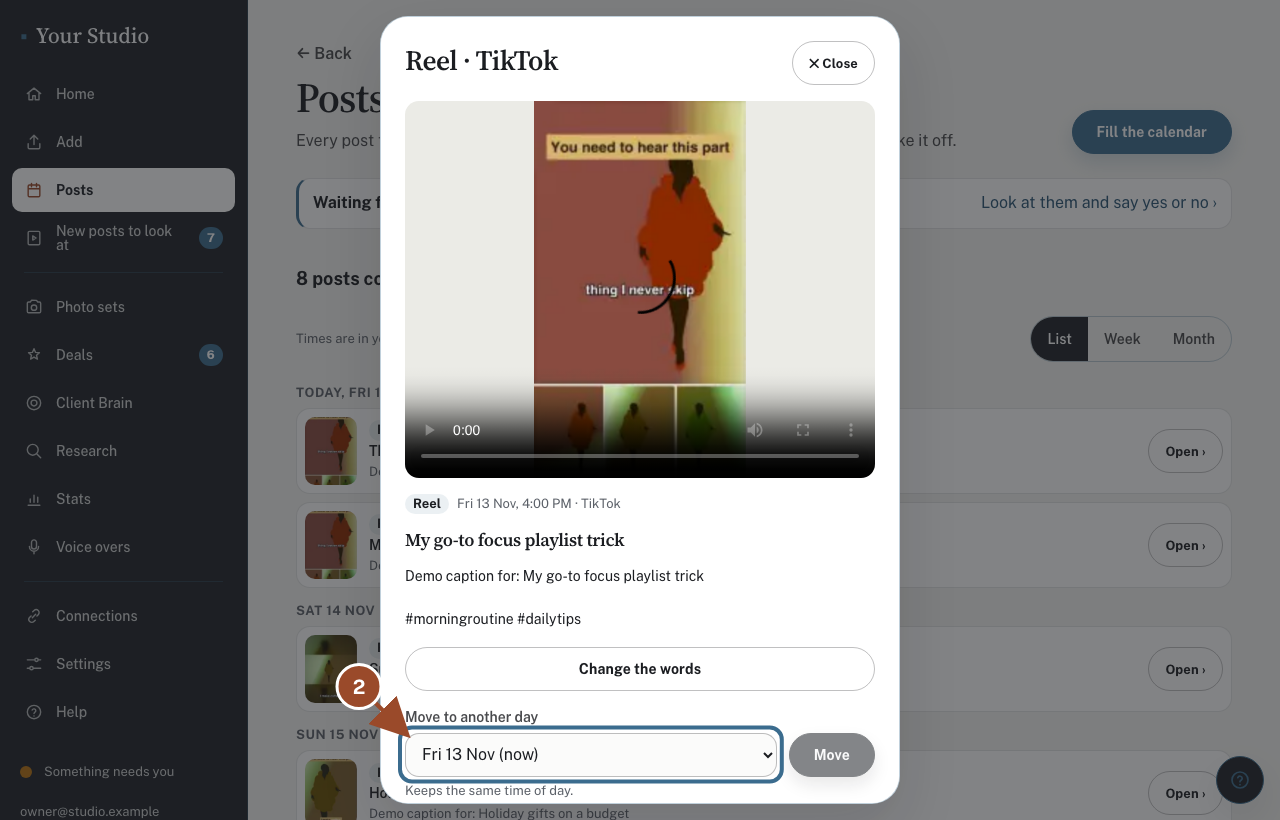
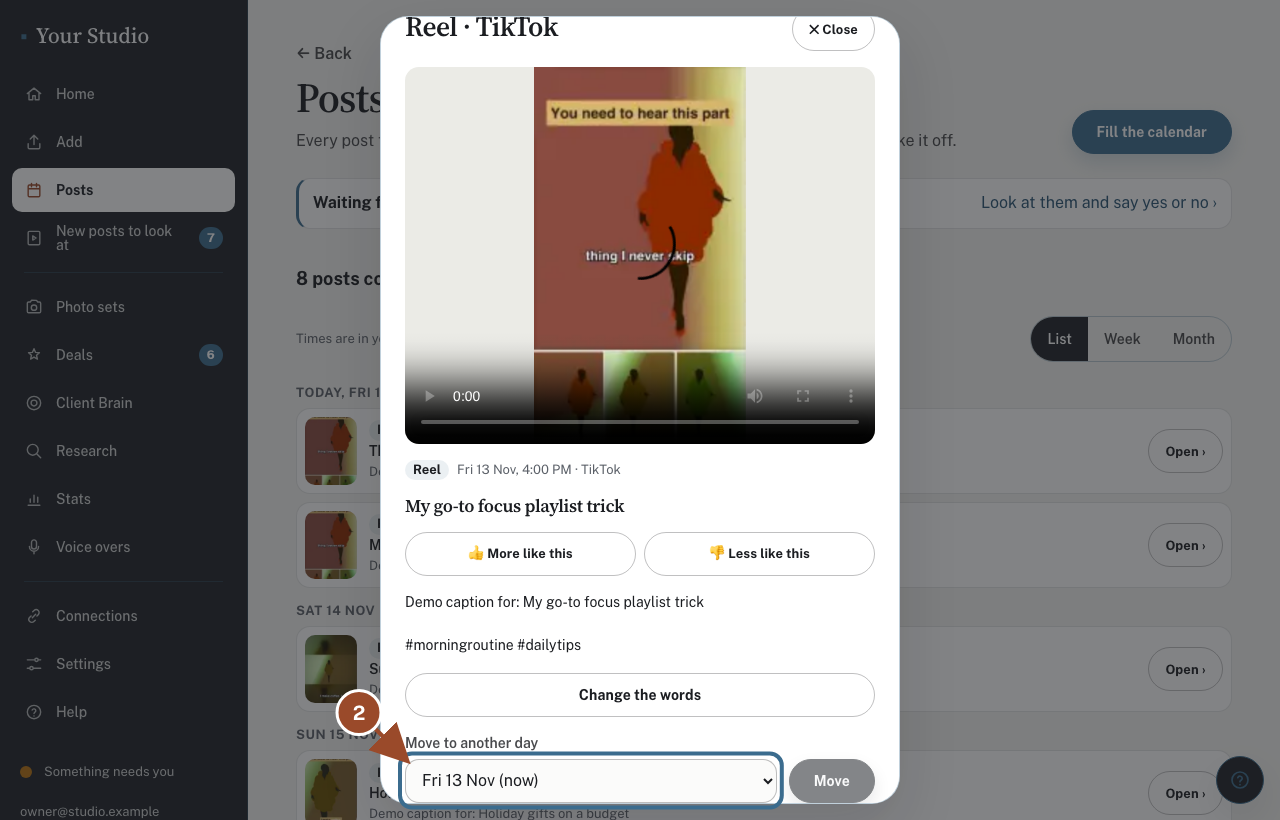
"More like this" and "Less like this" on every post (owner, 13 Nov 2026)
- The opened post on Posts has two buttons. A tap is saved against that kind of post (a reel's
  clip type, or a photo post's kind); the latest tap per kind wins (studioMemory tasteFrom).
- The cut job's memory carries it: "more" kinds are tried first in every event, "less" kinds
  only fill a batch the others leave short (jobs/clipmaker.py plan_typed, jobs/playbook.py).
- A new photo set leaves out a "less" kind while another kind remains.
- Guide move-or-remove-a-post gains the step. Tests: jobs/tests/test_taste.py (red on the old
  planner), tests/unit/posts-list.test.ts (red without the photo filter), Posts e2e clicks it.

Claude-Session: https://claude.ai/code/session_01CJ98gV1Fg1ugnbr1epnbBp

Changed region(s): [[0.3125, 0.0, 0.6875, 0.8537], [0.25, 0.7927, 0.6875, 1.0]]

diff --git a/tests/unit/posts-list.test.ts b/tests/unit/posts-list.test.ts
@@ -341,3 +341,32 @@ describe("the Rejected bin", () => {
     expect((await photoPostsTick(await hydrate(env), Date.now() + 30 * DAY)).posted).toBe(posts.length - same.length);
   });
 });
+
+// "More like this" / "Less like this" on any post (owner, 13 Nov 2026): a tap is saved against the kind
+// of post, the latest tap per kind wins, and the next batch reads it (clips: jobs/tests/test_taste.py).
+describe("More like this / Less like this", () => {
+  it("a tap on a reel is saved as its clip type and reaches the cut job's memory; the latest tap wins", async () => {
+    const { loadMemory } = await import("@worker/domain/studioMemory");
+    await seedClips(1);
+    raw.exec("UPDATE clips SET clip_type = 'moving_photo' WHERE id = 'clp_0'");
+    raw.exec(`INSERT INTO posts (id, clip_id, platform, scheduled_at, status) VALUES ('pst_t1', 'clp_0', 'tiktok', '${new Date(Date.now() + DAY).toISOString()}', 'planned')`);
+    const less = await call("POST", "/api/posts/item/pst_t1/taste", { more: false });
+    expect(less).toEqual({ status: 200, json: { ok: true, kind: "clip:moving_photo", more: false } });
+    expect((await loadMemory(env)).taste).toEqual({ more: [], less: ["clip:moving_photo"] });
+    await call("POST", "/api/posts/item/pst_t1/taste", { more: true });
+    expect((await loadMemory(env)).taste).toEqual({ more: ["clip:moving_photo"], less: [] });
+    expect((await call("POST", "/api/posts/item/pst_t1/taste", {})).status).toBe(400);
+    expect((await call("POST", "/api/posts/item/pst_gone/taste", { more: true })).status).toBe(404);
+  });
+
+  it("Less like this on a photo set: the next pack plans no photo sets while other kinds remain", async () => {
+    await readyPack();
+    const set = raw.prepare("SELECT id FROM social_posts WHERE item_kind = 'carousel' LIMIT 1").get() as { id: string };
+    expect(set).toBeTruthy();
+    expect((await call("POST", `/api/posts/item/${set.id}/taste`, { more: false })).json).toMatchObject({ kind: "photo:carousel" });
+    const next = await readyPack();
+    const kinds = (raw.prepare("SELECT item_kind FROM social_posts WHERE pack_id = ?").all(next) as { item_kind: string }[]).map((r) => r.item_kind);
+    expect(kinds.length).toBeGreaterThan(0);
+    expect(kinds).not.toContain("carousel");
+  });
+});

diff --git a/worker/domain/studioMemory.ts b/worker/domain/studioMemory.ts
@@ -50,6 +50,40 @@ export interface MemorySummary {
   rejection: { rate: number; reviewed: number; window_days: number };
   approach: Approach;
   why: string;
+  /** "More like this" / "Less like this" on a post (owner, 13 Nov 2026): the kinds she asked for more or less of. */
+  taste?: Taste;
+}
+
+/** Kinds are "clip:<clip_type>" or "photo:<item_kind>". */
+export interface Taste {
+  more: string[];
+  less: string[];
+}
+
+export const TASTE_EVENT = "post.taste";
+
+/** Her taps, newest first, as the kinds she wants more and less of: the latest tap per kind wins. Pure. */
+export function tasteFrom(taps: readonly { kind: string; more: boolean }[]): Taste {
+  const seen = new Map<string, boolean>();
+  for (const t of taps) if (t.kind && !seen.has(t.kind)) seen.set(t.kind, t.more);
+  return { more: [...seen].filter(([, m]) => m).map(([k]) => k), less: [...seen].filter(([, m]) => !m).map(([k]) => k) };
+}
+
+/** Her taps in the memory window. */
+export async function loadTaste(env: Pick<Env, "DB">): Promise<Taste> {
+  const since = new Date(Date.now() - WINDOW_DAYS * 86_400_000).toISOString();
+  const { results } = await env.DB.prepare("SELECT detail FROM events WHERE kind = ? AND created_at >= ? ORDER BY created_at DESC, rowid DESC LIMIT 200").bind(TASTE_EVENT, since).all<{ detail: string }>();
+  const taps = results
+    .map((r) => {
+      try {
+        const d = JSON.parse(r.detail) as { kind?: unknown; more?: unknown };
+        return typeof d.kind === "string" && typeof d.more === "boolean" ? { kind: d.kind, more: d.more } : null;
+      } catch {
+        return null;
+      }
+    })
+    .filter((x): x is { kind: string; more: boolean } => !!x);
+  return tasteFrom(taps);
 }
 
 function clip(s: string, n: number): string {
@@ -169,5 +203,5 @@ export async function loadMemory(env: Pick<Env, "DB">): Promise<MemorySummary> {
     await recordEvent(env.DB, "studio.approach_switched", null, { from: prev, to: m.approach, rate: m.rejection.rate, reviewed: m.rejection.reviewed, why: m.why });
     log.warn("studio.approach_switched", { from: prev, to: m.approach, rate: m.rejection.rate, reviewed: m.rejection.reviewed });
   }
-  return m;
+  return { ...m, taste: await loadTaste(env) };
 }

diff --git a/worker/routes/posts.ts b/worker/routes/posts.ts
@@ -8,6 +8,7 @@ import { Hono } from "hono";
 import type { Env, Vars } from "../env";
 import { requireUser } from "../lib/auth";
 import { parseJson, recordEvent } from "../lib/db";
+import { TASTE_EVENT } from "../domain/studioMemory";
 import { fail, readJson } from "../lib/http";
 import { log, safeError } from "../lib/log";
 import { weekBounds, zonedToUtc, type PlannedPost, type SchedulableClip } from "../domain/slotting";
@@ -154,6 +155,29 @@ posts.get("/item/:id", async (c) => {
   const item = await postItem(c.env, c.req.param("id"));
   if (!item) return fail(c, 404, "That post is gone. Go back to Posts and look again.");
   return c.json(item);
+});
+
+/**
+ * "More like this" / "Less like this" on any post (owner, 13 Nov 2026). Saved as a tap on the kind of
+ * post (a reel's clip type, or a photo post's kind); the studio memory reads the latest tap per kind
+ * and the next batch makes more of it, or uses it only to fill (worker/domain/studioMemory.ts tasteFrom).
+ */
+posts.post("/item/:id/taste", async (c) => {
+  const body = (await c.req.json().catch(() => ({}))) as { more?: unknown };
+  if (typeof body.more !== "boolean") return fail(c, 400, "Pick More like this or Less like this.");
+  const item = await postItem(c.env, c.req.param("id"));
+  if (!item) return fail(c, 404, "That post is gone. Go back to Posts and look again.");
+  let kind: string | null = null;
+  if (item.source === "clip") {
+    const r = await c.env.DB.prepare("SELECT clip_type FROM clips WHERE id = ?").bind(item.ref_id).first<{ clip_type: string | null }>();
+    kind = r?.clip_type ? `clip:${r.clip_type}` : null;
+  } else {
+    const r = await c.env.DB.prepare("SELECT item_kind FROM social_posts WHERE id = ?").bind(item.id).first<{ item_kind: string }>();
+    kind = r ? `photo:${r.item_kind}` : null;
+  }
+  if (!kind) return fail(c, 409, "This post is an older kind the studio cannot learn from. Try another post.");
+  await recordEvent(c.env.DB, TASTE_EVENT, item.id, { kind, more: body.more }, "owner");
+  return c.json({ ok: true, kind, more: body.more });
 });
 
 /** Posts per page in Calendar → History (day 358). */

diff --git a/app/components/PostSheet.tsx b/app/components/PostSheet.tsx
@@ -29,6 +29,20 @@ export function PostSheet({ id, tz, today, others, onClose, onChanged }: { id: s
   const [day, setDay] = useState("");
   const [swapWith, setSwapWith] = useState("");
   const [busy, setBusy] = useState(false);
+  const [taste, setTaste] = useState<boolean | null>(null);
+
+  async function tell(more: boolean) {
+    setBusy(true);
+    try {
+      await post(`/api/posts/item/${id}/taste`, { more });
+      setTaste(more);
+      toast.ok(more ? "Got it. The next batch makes more posts like this one." : "Got it. The next batch makes fewer posts like this one.");
+    } catch (e) {
+      toast.bad(e);
+    } finally {
+      setBusy(false);
+    }
+  }
 
   if (item.error && !p)
     return (
@@ -110,6 +124,16 @@ export function PostSheet({ id, tz, today, others, onClose, onChanged }: { id: s
         </div>
         {p.source === "clip" ? <h3 className="post-headline">{p.headline}</h3> : null}
         {p.reason ? <div className={`notice ${p.state === "failed" ? "bad" : "warn"}`}>{p.reason}</div> : null}
+
+        {/* "More like this" / "Less like this" (owner, 13 Nov 2026): what she says here shapes the next batch. */}
+        <div className="taste-row" data-taste>
+          <button type="button" className={`btn quiet small${taste === true ? " on" : ""}`} aria-pressed={taste === true} disabled={busy} onClick={() => void tell(true)}>
+            👍 More like this
+          </button>
+          <button type="button" className={`btn quiet small${taste === false ? " on" : ""}`} aria-pressed={taste === false} disabled={busy} onClick={() => void tell(false)}>
+            👎 Less like this
+          </button>
+        </div>
 
         {editing && p.edit ? (
           <div className="field">

diff --git a/tests/e2e/posts.spec.ts b/tests/e2e/posts.spec.ts
@@ -76,6 +76,7 @@ function cleanUp() {
     [
       "DELETE FROM posts",
       "DELETE FROM social_posts",
+      "DELETE FROM events WHERE kind = 'post.taste'",
       "DELETE FROM pack_items",
       "DELETE FROM pack_photos",
       "DELETE FROM photo_packs",
@@ -228,6 +229,12 @@ test("open a post of each kind: watch it, read the whole caption, change the wor
   await expect(sheet.getByRole("button", { name: "Skip this post (it will not go out)" })).toBeVisible();
   await expect(sheet.getByLabel("Swap for a different post")).toHaveCount(0);
   await shot(page, "06-photo-post-words-saved", isMobile);
+  // "Less like this" (owner, 13 Nov 2026): saved against this kind of post, said in place, button stays pressed.
+  await sheet.getByRole("button", { name: /Less like this/ }).click();
+  await expect(page.locator(".toast").filter({ hasText: "fewer posts like this one" }).first()).toBeVisible();
+  await expect(sheet.getByRole("button", { name: /Less like this/ })).toHaveAttribute("aria-pressed", "true");
+  expect(sql<{ n: number }>(`SELECT COUNT(*) AS n FROM events WHERE kind = 'post.taste' AND detail LIKE '%"photo:%' AND detail LIKE '%"more":false%'`)[0].n).toBeGreaterThanOrEqual(1);
+  sql("DELETE FROM events WHERE kind = 'post.taste'"); // later tests in this shared studio plan photo sets unsteered
   await sheet.getByRole("button", { name: "✕ Close" }).last().click();
   await expect(sheet).toHaveCount(0);
 

diff --git a/worker/lib/photoPosts.ts b/worker/lib/photoPosts.ts
@@ -30,6 +30,7 @@ import { weekBounds, zonedToUtc } from "../domain/slotting";
 import { moveToDate } from "../domain/sync";
 import { localDate, planPack, postLine, skipToken, starterCaptions, whenLine } from "../domain/photoPosts";
 import { hasRules, parseRules, priceList, textProblems, withAiLabel, type ContentRules } from "@shared/contentRules";
+import { loadTaste } from "../domain/studioMemory";
 import {
   AI_MADE,
   PACK_MAX_PHOTOS,
@@ -281,7 +282,11 @@ export async function schedulePack(env: Env, packId: string, now = Date.now()): 
     const k = `${cp.platform}|${w.start}`;
     weekCounts.set(k, (weekCounts.get(k) ?? 0) + 1);
   }
-  const plan = planPack(now, cfg, tz, items.map((i) => i.kind), taken, weekFull);
+  // "Less like this" on a kind of photo post (owner, 13 Nov 2026): that kind is left out while another remains.
+  const less = new Set((await loadTaste(env)).less);
+  const kinds = items.map((i) => i.kind);
+  const wanted = kinds.filter((k) => !less.has(`photo:${k}`));
+  const plan = planPack(now, cfg, tz, wanted.length ? wanted : kinds, taken, weekFull);
   const order: Record<Social, number> = { facebook: 0, instagram: 1, tiktok: 2, pinterest: 0 };
   for (const p of plan) {
     const caption = captions[order[p.platform] % Math.max(1, captions.length)] ?? "";

diff --git a/app/styles/calendar.css b/app/styles/calendar.css
@@ -624,7 +624,7 @@
   display: flex;
   flex-wrap: wrap;
   justify-content: space-between;
-  gap: var(--space-2, 8px);
+  gap: var(--space-2xs);
   align-items: center;
   min-height: 44px;
   padding: 12px 14px;
@@ -638,4 +638,19 @@
 }
 .posts-waiting span {
   color: var(--gold-ink);
+}
+
+/* "More like this" / "Less like this" in the opened post: two equal buttons side by side, 44 px tall. */
+.taste-row {
+  display: grid;
+  grid-template-columns: 1fr 1fr;
+  gap: var(--space-2xs);
+}
+.taste-row .btn {
+  min-height: 44px;
+}
+.taste-row .btn.on {
+  border-color: var(--success);
+  background: var(--success-soft);
+  font-weight: 600;
 }

diff --git a/jobs/tests/test_taste.py b/jobs/tests/test_taste.py
@@ -1,0 +1,46 @@
+"""More like this / Less like this (owner, 13 Nov 2026): kinds she asked for more of are made first;
+kinds she asked for less of only fill a batch the others leave short. Golden-set footage."""
+from __future__ import annotations
+
+import sys
+import unittest
+from collections import Counter
+from pathlib import Path
+
+sys.path.insert(0, str(Path(__file__).resolve().parents[1]))
+import clipmaker as CM  # noqa: E402
+import golden_playbook as G  # noqa: E402
+import playbook as PB  # noqa: E402
+
+
+def plan(slug: str, taste: dict, n: int = 10) -> list:
+    looks, tracks, talk = G.looks_for(G.load()[slug]["uploads"])
+    return CM.plan_typed(looks, PB.load({"memory": {"taste": taste}}), {"min": 1, "max": n}, None, tracks, talk)
+
+
+class Taste(unittest.TestCase):
+    def test_less_like_this_leaves_that_kind_out_when_others_fill(self) -> None:
+        base = Counter(p.clip_type for p in plan("event-decor", {}, 3))
+        self.assertIn("moving_photo", plan_types := [p.clip_type for p in plan("event-decor", {}, 10)])
+        got = [p.clip_type for p in plan("event-decor", {"less": ["clip:moving_photo"]}, 3)]
+        self.assertEqual(len(got), sum(base.values()))
+        self.assertNotIn("moving_photo", got, f"less was ignored: {got} (unsteered {plan_types})")
+
+    def test_less_like_this_still_fills_a_short_batch(self) -> None:
+        full = plan("event-decor", {}, 10)
+        got = plan("event-decor", {"less": ["clip:moving_photo"]}, 10)
+        self.assertEqual(len(got), len(full), "a 'less' kind must still fill a batch the others leave short")
+
+    def test_more_like_this_makes_more_of_that_kind(self) -> None:
+        before = [p.clip_type for p in plan("event-decor", {}, 3)].count("moving_photo")
+        got = [p.clip_type for p in plan("event-decor", {"more": ["clip:moving_photo"]}, 3)]
+        self.assertGreater(got.count("moving_photo"), before, got)
+        self.assertEqual(got[0], "moving_photo")
+
+    def test_photo_kinds_and_unknown_kinds_do_not_reach_the_clip_planner(self) -> None:
+        pb = PB.load({"memory": {"taste": {"more": ["photo:reel", "clip:not_a_type", 7], "less": ["photo:carousel"]}}})
+        self.assertEqual((pb["more"], pb["less"]), ([], []))
+
+
+if __name__ == "__main__":
+    unittest.main()

diff --git a/jobs/clipmaker.py b/jobs/clipmaker.py
@@ -321,15 +321,20 @@ def plan_typed(looks: list[S.Look], pb: dict[str, Any], target: dict[str, int], 
 
     want = int(target.get("max") or DEFAULT_TARGET["max"])
     niche_first = [t for t in pb.get("order", []) if t in TRY_ORDER and t in (pb.get("niche_first") or [])]
-    order = list(dict.fromkeys([*niche_first, *TRY_ORDER]))
-    dead: set[tuple[str, str]] = set()
-    progress = True
-    rounds = 0
-    while len(plans) < want and progress and rounds < 12:
+    more = [t for t in pb.get("more") or [] if t in TRY_ORDER]
+    less = {t for t in pb.get("less") or [] if t in TRY_ORDER}
+    # Her "More like this" kinds first, then the niche's; her "Less like this" kinds only fill a batch the
+    # others leave short (owner, 13 Nov 2026).
+    order = list(dict.fromkeys([*more, *niche_first, *TRY_ORDER]))
+    for allowed in ([t for t in order if t not in less], order):
+      dead: set[tuple[str, str]] = set()
+      progress = True
+      rounds = 0
+      while len(plans) < want and progress and rounds < 12:
         progress = False
         rounds += 1
         for ev_id, ev in sorted(events.items()):
-            for ctype in order:
+            for ctype in allowed:
                 if len(plans) >= want:
                     break
                 if (ev_id, ctype) in dead:

diff --git a/jobs/playbook.py b/jobs/playbook.py
@@ -44,6 +44,11 @@ def load(spec: dict[str, Any] | None) -> dict[str, Any]:
     pb["order"] = list(TYPE_IDS)
     pb["niche_first"] = []
     pb["niche_hooks"], pb["caption_tips"], pb["niche_formats"] = [], [], []
+    # "More like this" / "Less like this" (owner, 13 Nov 2026; spec.memory.taste from studioMemory.ts):
+    # kinds she asked for more of are tried first; kinds she asked for less of only fill a short batch.
+    taste = ((spec or {}).get("memory") or {}).get("taste") or {}
+    pb["more"] = [k[5:] for k in (taste.get("more") or []) if isinstance(k, str) and k.startswith("clip:") and k[5:] in TYPE_IDS]
+    pb["less"] = [k[5:] for k in (taste.get("less") or []) if isinstance(k, str) and k.startswith("clip:") and k[5:] in TYPE_IDS]
     niche = (spec or {}).get("niche_playbook")
     if isinstance(niche, dict):
         fmts = [str(f.get("name") if isinstance(f, dict) else f)[:80] for f in (niche.get("formats") or [])][:12]

diff --git a/help/guides/move-or-remove-a-post.md b/help/guides/move-or-remove-a-post.md
@@ -2,8 +2,8 @@
 title: "Move or remove a post"
 group: everyday
 screen: calendar
-last_checked: 2026-09-26
-keywords: move, reschedule, remove, delete post, swap, calendar, change day
+last_checked: 2026-11-13
+keywords: more like this, less like this, move, reschedule, remove, delete post, swap, calendar, change day
 ---
 
 ## Tap the post
@@ -37,16 +37,24 @@ Pick another post under **Swap for a different post** and tap **Swap**. The two 
 
 Tap **Take it off the calendar**. The clip goes back to your approved pool. A photo post says **Skip this post** instead: a skipped post never goes out and waits in the **Rejected bin**.
 
-## Approved, not scheduled
+## Say "more like this" or "less like this"
 
 ![Step 5](/help/screenshots/move-or-remove-a-post-5.png)
+<!-- click: [data-post="demo_post_h4"] .post-open -->
+<!-- target: [data-taste] -->
+
+Tap **More like this** or **Less like this** on any post. The next batch makes more, or fewer, of that kind of post. Change your mind any time: the last tap counts.
+
+## Approved, not scheduled
+
+![Step 6](/help/screenshots/move-or-remove-a-post-6.png)
 <!-- target: [aria-label="Approved, not scheduled"] -->
 
 Clips waiting for a spot are listed here. Tap **Add** to place one yourself.
 
 ## Never more than the weekly limit
 
-![Step 6](/help/screenshots/move-or-remove-a-post-6.png)
+![Step 7](/help/screenshots/move-or-remove-a-post-7.png)
 <!-- target: .cal-caps -->
 
 Each app has a weekly limit (at most 10), written out under your posts. It is the most that goes out in a week, never a target. A full week says so; move a post out first.
